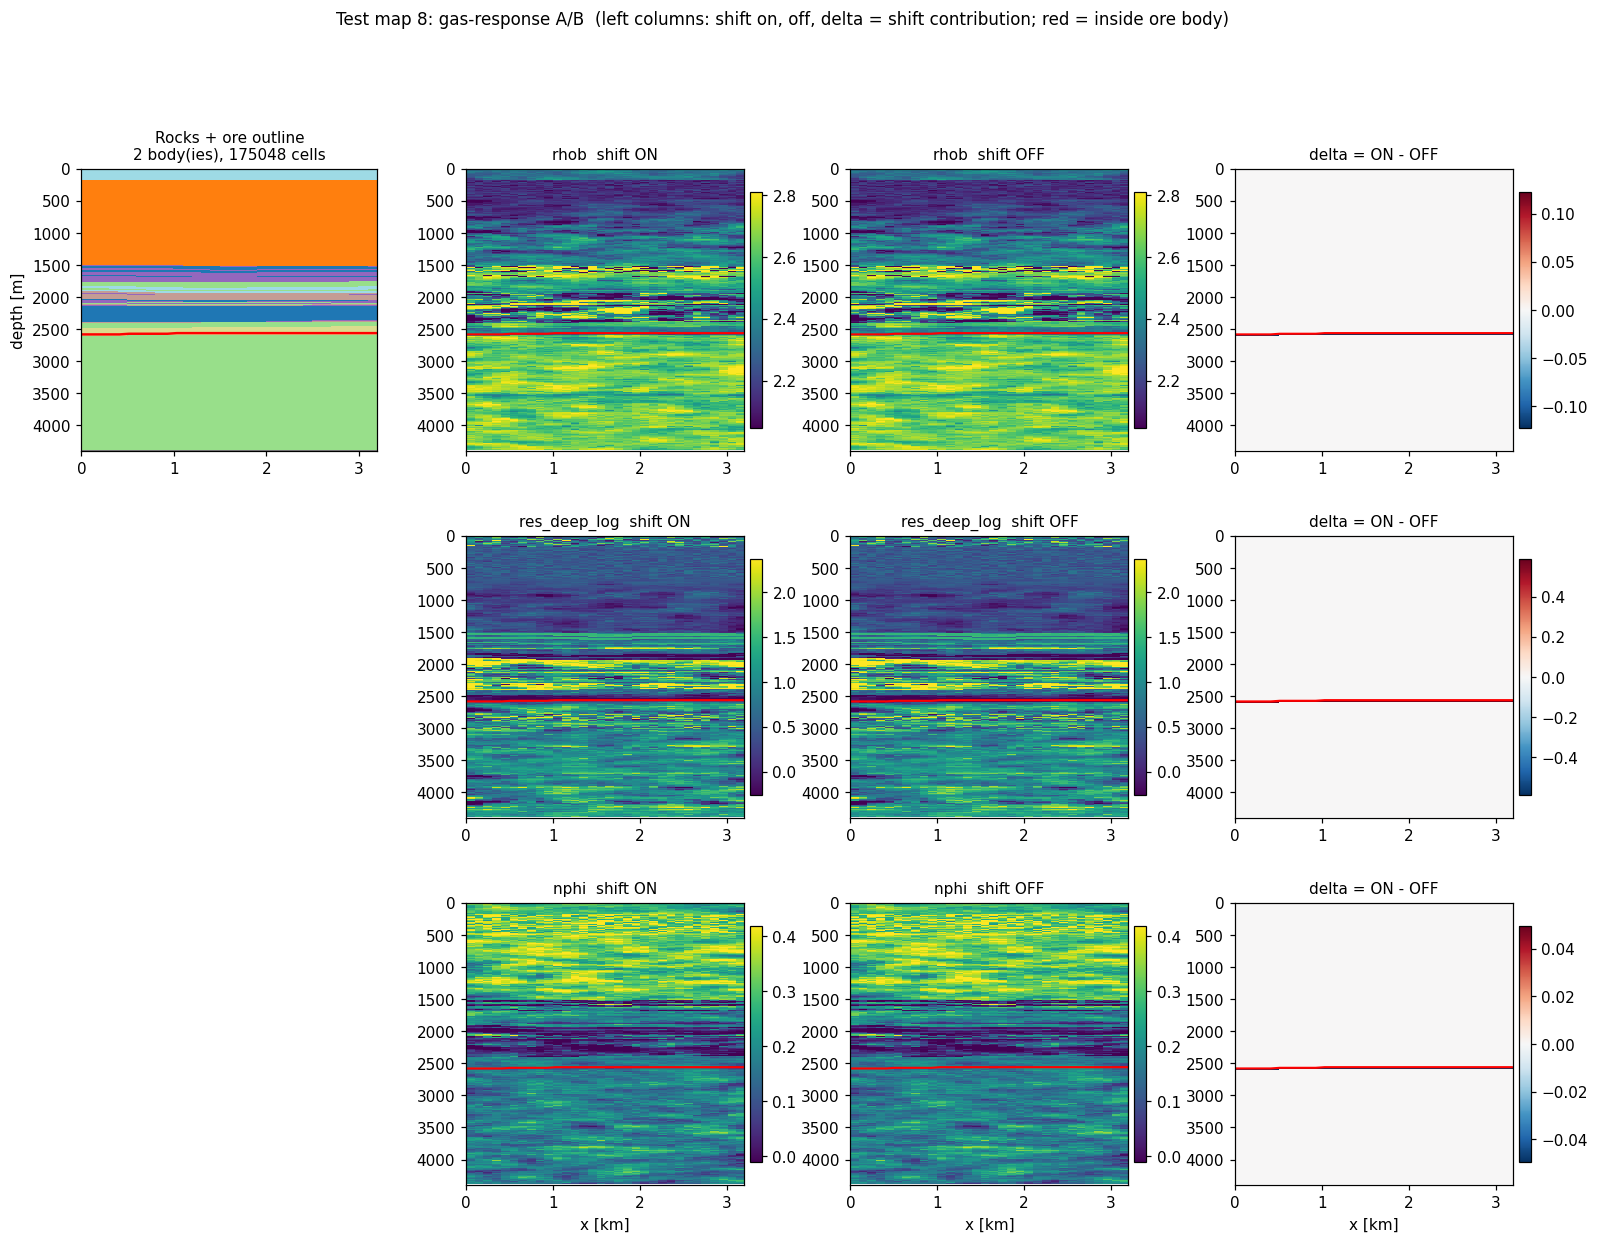
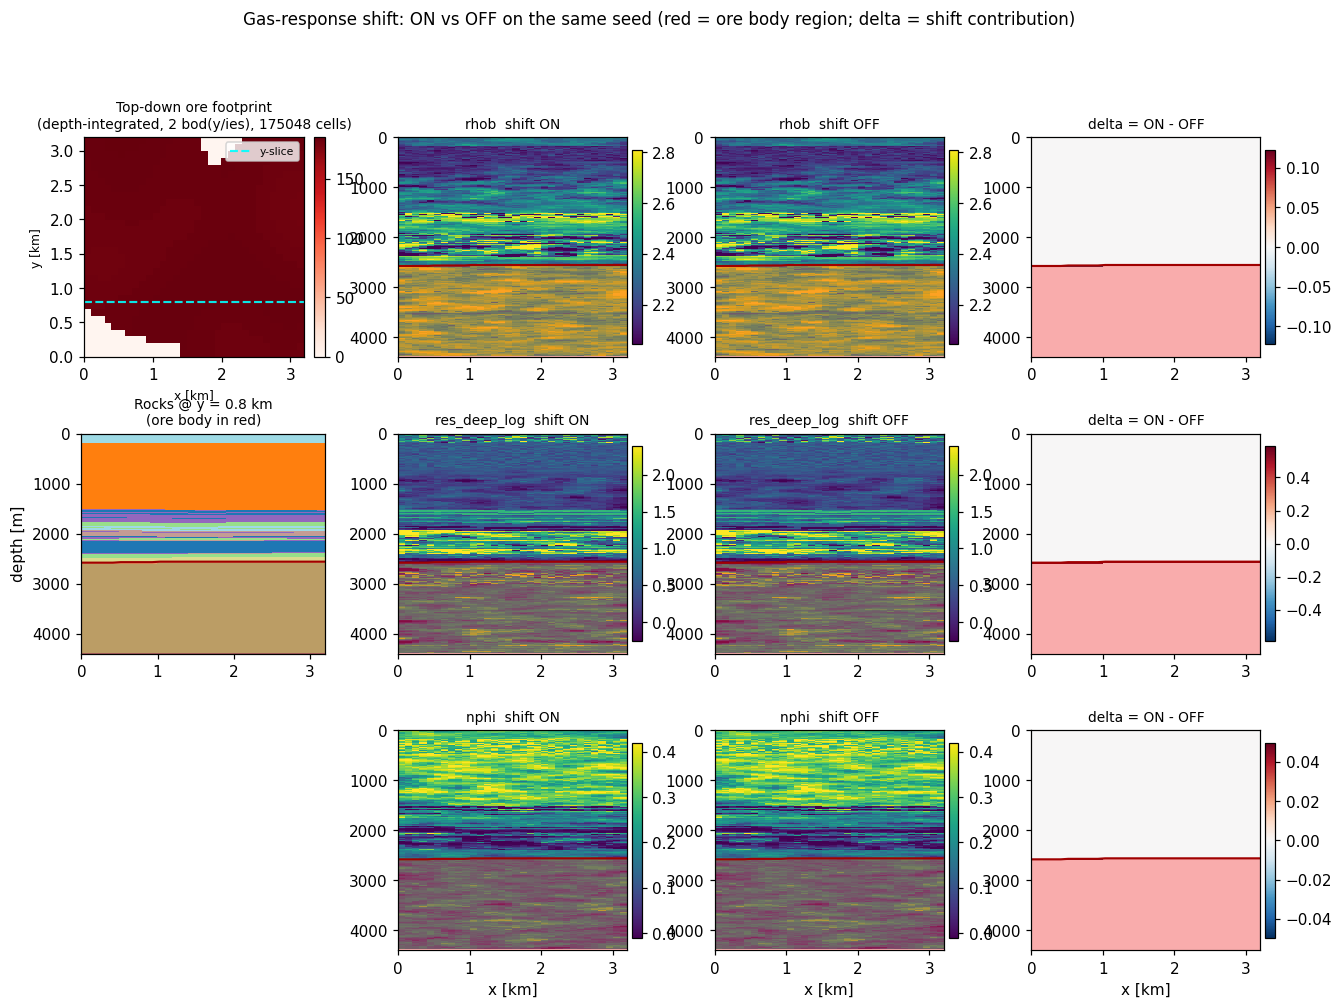
gas-shift slide: top-down ore footprint + red-filled overlay
- inspect_test_maps.py: add a top-down ore-body footprint panel
  (x vs y, depth-integrated) plus a cyan dashed line marking
  the chosen y-slice; fill the ore region with a translucent
  red overlay on every cross-section (replaces the thin contour
  outline that the user could not see).
- Slide rebalanced to two columns: figure on the left at 0.66
  textwidth, narrative on the right -- so the explanation is
  no longer clipped under the figure.

diff --git a/scripts/diagnostics/inspect_test_maps.py b/scripts/diagnostics/inspect_test_maps.py
@@ -88,13 +88,33 @@ def main() -> None:
 
         # ------ figure ------
         # pick the y-slice that contains the most in-ore cells so the
-        # cross-section actually cuts through the body (a fixed
-        # y = ny/2 misses bodies that sit off-centre and the user
-        # only sees a thin sliver of red).
+        # cross-section actually cuts through the body.
         per_y_count = in_ore.sum(axis=(0, 2))
         y_slice = int(np.argmax(per_y_count)) if per_y_count.max() > 0 else ny // 2
-        fig, axes = plt.subplots(len(GAS_VARS), 4, figsize=(17, 4 * len(GAS_VARS)),
-                                 gridspec_kw={"wspace": 0.30, "hspace": 0.3})
+        # top-down footprint: depth-integrated ore presence per (x, y).
+        footprint = in_ore.sum(axis=2).astype(float)
+
+        # Layout:
+        #   col 0 = top-down footprint (row 0) + rocks cross-section (rows 1..)
+        #   cols 1..3 = shift ON, shift OFF, delta -- one row per variable.
+        # 3 vars + footprint => figure stays compact (around 14 x 9 in).
+        fig, axes = plt.subplots(len(GAS_VARS), 4, figsize=(14, 3.2 * len(GAS_VARS)),
+                                 gridspec_kw={"wspace": 0.30, "hspace": 0.35})
+
+        def _draw_ore_fill(ax, ore_section_2d):
+            """Highlight the ore region with a semi-transparent red fill on
+            top of whatever raster the axis already shows. Much more visible
+            than a thin contour outline."""
+            mask = np.ma.masked_where(ore_section_2d < 0.5,
+                                       np.ones_like(ore_section_2d))
+            ax.imshow(mask, aspect="auto",
+                      cmap=plt.matplotlib.colors.ListedColormap(["#ff2222"]),
+                      alpha=0.35, vmin=0, vmax=1,
+                      extent=(0, nx*0.1, depth_axis[-1], depth_axis[0]),
+                      interpolation="nearest")
+            ax.contour(np.linspace(0, nx*0.1, nx), depth_axis,
+                       ore_section_2d, levels=[0.5],
+                       colors="#a00000", linewidths=1.4)
 
         for row, v in enumerate(GAS_VARS):
             on_section  = m_on["variables"][v][:, y_slice, :].T
@@ -107,7 +127,7 @@ def main() -> None:
                              np.nanpercentile(on_section, 98)))
 
             for col, (title, sec, cmap, vrange) in enumerate([
-                ("rocks + ore" if row == 0 else "", None, None, None),
+                ("context" if row == 0 else "", None, None, None),
                 (f"{v}  shift ON",  on_section,  "viridis", (vmin, vmax)),
                 (f"{v}  shift OFF", off_section, "viridis", (vmin, vmax)),
                 (f"delta = ON - OFF", delta, "RdBu_r", None),
@@ -115,6 +135,24 @@ def main() -> None:
                 ax = axes[row, col]
                 if col == 0:
                     if row == 0:
+                        # top-down ore-body footprint (x vs y, integrated over depth)
+                        im0 = ax.imshow(footprint.T, aspect="equal",
+                                        cmap="Reds", origin="lower",
+                                        extent=(0, nx*0.1, 0, ny*0.1),
+                                        interpolation="nearest")
+                        ax.set_title(f"Top-down ore footprint\n"
+                                     f"(depth-integrated, "
+                                     f"{n_bodies} bod(y/ies), {n_in_ore} cells)",
+                                     fontsize=9)
+                        ax.set_xlabel("x [km]", fontsize=8)
+                        ax.set_ylabel("y [km]", fontsize=8)
+                        ax.axhline(y_slice * 0.1, color="cyan", lw=1.4,
+                                   linestyle="--", alpha=0.9,
+                                   label=f"y-slice")
+                        ax.legend(fontsize=7, loc="upper right")
+                        fig.colorbar(im0, ax=ax, fraction=0.046, pad=0.04)
+                    elif row == 1:
+                        # rocks cross-section at the chosen y-slice
                         rock_slice = rock[:, y_slice, :].T
                         uniq = sorted(set(rock_slice.ravel().tolist()))
                         rmap = {r: k for k, r in enumerate(uniq)}
@@ -122,18 +160,14 @@ def main() -> None:
                                   aspect="auto", cmap="tab20",
                                   extent=(0, nx*0.1, depth_axis[-1], depth_axis[0]),
                                   interpolation="nearest")
-                        ax.contour(np.linspace(0, nx*0.1, nx), depth_axis,
-                                   ore_section, levels=[0.5],
-                                   colors="red", linewidths=1.6)
-                        ax.set_title(f"Rocks + ore outline\n"
-                                     f"{n_bodies} body(ies), {n_in_ore} cells",
-                                     fontsize=10)
+                        _draw_ore_fill(ax, ore_section)
+                        ax.set_title(f"Rocks @ y = {y_slice * 0.1:.1f} km\n"
+                                     f"(ore body in red)", fontsize=9)
                         ax.set_ylabel("depth [m]")
                     else:
                         ax.set_visible(False)
                 else:
                     if col == 3:
-                        # delta uses centered colormap so 0 is white
                         amax = max(0.01, float(np.nanmax(np.abs(delta))))
                         norm = TwoSlopeNorm(vcenter=0, vmin=-amax, vmax=amax)
                         im = ax.imshow(sec, aspect="auto", cmap=cmap,
@@ -145,17 +179,14 @@ def main() -> None:
                                        vmin=vrange[0], vmax=vrange[1],
                                        extent=(0, nx*0.1, depth_axis[-1], depth_axis[0]),
                                        interpolation="nearest")
-                    ax.contour(np.linspace(0, nx*0.1, nx), depth_axis,
-                               ore_section, levels=[0.5],
-                               colors="red", linewidths=1.4)
-                    ax.set_title(title, fontsize=10)
+                    _draw_ore_fill(ax, ore_section)
+                    ax.set_title(title, fontsize=9)
                     if row == len(GAS_VARS) - 1:
                         ax.set_xlabel("x [km]")
                     fig.colorbar(im, ax=ax, fraction=0.04, pad=0.02)
 
-        fig.suptitle(f"Test map {i}: gas-response A/B  "
-                     f"(left columns: shift on, off, delta = shift contribution; "
-                     f"red = inside ore body)",
+        fig.suptitle(f"Gas-response shift: ON vs OFF on the same seed "
+                     f"(red = ore body region; delta = shift contribution)",
                      fontsize=11, y=1.00)
         OUT_DIR.mkdir(parents=True, exist_ok=True)
         out = OUT_DIR / f"test_map_{i}.png"
